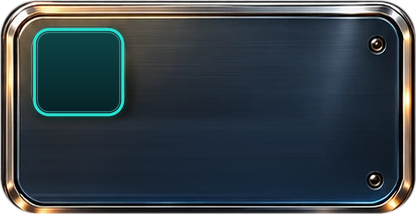
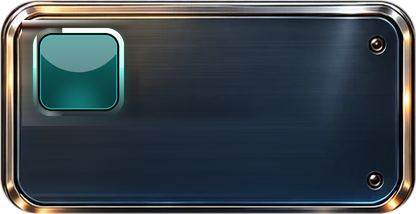
pages

Changed region(s): [[0.0312, 0.0841, 0.3125, 0.5888]]

diff --git a/index.html b/index.html
@@ -552,6 +552,7 @@ body.editing .nav-lab{pointer-events:auto;}
 }
 </style>
 <link rel="stylesheet" href="assets/fx.css?v=3">
+<link rel="stylesheet" href="assets/home-polish.css?v=12">
 </head>
 <body class="bg-black">
 <!-- shared metallic gradients for icon strokes -->
@@ -592,7 +593,7 @@ body.editing .nav-lab{pointer-events:auto;}
   <!-- ===================== GREETING ===================== -->
   <!-- Panel art: assets/greeting.png (865x202, supplied design with the baked text removed so the name/greeting stay editable).
        Live layers: photo button (tap to change), editable GOOD MORNING + name, breathing ring glow. -->
-  <section class="abs" style="--x:21;--y:411;--w:865;--h:202;transform:scale(1.025);transform-origin:0 0" aria-label="Greeting">
+  <section class="abs gloss" style="--x:21;--y:411;--w:865;--h:202;transform:scale(1.025);transform-origin:0 0" aria-label="Greeting">
     <img src="assets/greeting.png" alt="" class="absolute inset-0 w-full h-full" style="object-fit:fill;filter:drop-shadow(0 calc(8*var(--u)) calc(10*var(--u)) rgba(0,0,0,.65))">
     <!-- breathing orange glow around the segmented ring -->
     <div class="absolute pointer-events-none rounded-full" style="left:calc(46*var(--u));top:calc(0*var(--u));width:calc(204*var(--u));height:calc(200*var(--u));box-shadow:0 0 calc(26*var(--u)) rgba(255,122,26,.65),inset 0 0 calc(20*var(--u)) rgba(255,122,26,.25);animation:breathe 4.5s ease-in-out infinite" aria-hidden="true"></div>
@@ -611,7 +612,7 @@ body.editing .nav-lab{pointer-events:auto;}
   <!-- ===================== CTA ===================== -->
   <!-- Panel art: assets/cta.png (856x215, supplied design with the baked text removed so it stays editable; the glowing
        orange button is part of the art). Live layers: editable title/body, transparent button hit-area with hover/press/pulse. -->
-  <section class="abs" style="--x:24;--y:621;--w:856;--h:215;transform:scale(1.026);transform-origin:0 0" aria-label="Start a conversation">
+  <section class="abs gloss" style="--x:24;--y:621;--w:856;--h:215;transform:scale(1.026);transform-origin:0 0" aria-label="Start a conversation">
     <img src="assets/cta.png" alt="" class="absolute inset-0 w-full h-full" style="object-fit:fill;filter:drop-shadow(0 calc(8*var(--u)) calc(10*var(--u)) rgba(0,0,0,.65))">
     <div class="absolute" style="left:calc(56*var(--u));top:calc(40*var(--u));width:calc(600*var(--u))">
       <h3 data-edit="ctaTitle" class="title-orange m-0 font-bold leading-tight" style="font-size:clamp(18px,calc(46*var(--u)),27px)">Start a conversation</h3>
@@ -626,29 +627,33 @@ body.editing .nav-lab{pointer-events:auto;}
   <!-- Explore cards (2x2): Chats + Calls use the supplied art (chat/phone icon blocks); Marketplace + Anonymous reuse the same frame
        (assets/card-mk.png / card-an.png) with live SVG icons. Whole card is the click target; titles, subtitles and badge counts are editable. -->
   <div role="button" tabindex="0" data-action="chats" class="feature abs" style="--x:26;--y:895;--w:429;--h:220" aria-label="Chats — direct and group">
-    <img src="assets/card-market.png" alt="" class="absolute inset-0 w-full h-full" style="object-fit:fill;filter:drop-shadow(0 calc(8*var(--u)) calc(10*var(--u)) rgba(0,0,0,.65)) drop-shadow(0 0 calc(12*var(--u)) rgba(70,130,255,.25))">
+    <img src="assets/card-base-blue.png" alt="" class="absolute inset-0 w-full h-full" style="object-fit:fill;filter:drop-shadow(0 calc(8*var(--u)) calc(10*var(--u)) rgba(0,0,0,.65)) drop-shadow(0 0 calc(12*var(--u)) rgba(70,130,255,.25))">
+    <img class="ico3d absolute" src="assets/ico-chat-ref.png" alt="" style="left:calc(22.6*var(--u));top:calc(24*var(--u));width:calc(116.8*var(--u));height:calc(98*var(--u))">
     <span data-edit="chatsBadge" class="card-badge absolute" style="left:calc(357*var(--u));top:calc(28*var(--u));background:transparent;color:#fff;box-shadow:0 0 calc(12*var(--u)) transparent,inset 0 calc(2*var(--u)) 0 rgba(255,255,255,.45);font-size:clamp(11px,calc(27*var(--u)),15px);">10</span>
     <span data-edit="chatsTitle" class="title absolute" style="left:calc(40*var(--u));top:calc(125*var(--u));line-height:1">Chats</span>
     <span data-edit="chatsSub" class="sub absolute" style="left:calc(41*var(--u));top:calc(166*var(--u));font-size:clamp(12px,calc(31*var(--u)),17px);line-height:1">Direct &amp; group</span>
   </div>
 
   <div role="button" tabindex="0" data-action="calls" class="feature abs" style="--x:475;--y:895;--w:429;--h:220" aria-label="Calls — voice and video">
-    <img src="assets/card-anon.png" alt="" class="absolute inset-0 w-full h-full" style="object-fit:fill;filter:drop-shadow(0 calc(8*var(--u)) calc(10*var(--u)) rgba(0,0,0,.65)) drop-shadow(0 0 calc(12*var(--u)) rgba(255,170,70,.25))">
+    <img src="assets/card-base-dark.png" alt="" class="absolute inset-0 w-full h-full" style="object-fit:fill;filter:drop-shadow(0 calc(8*var(--u)) calc(10*var(--u)) rgba(0,0,0,.65)) drop-shadow(0 0 calc(12*var(--u)) rgba(255,170,70,.25))">
+    <img class="ico3d absolute" src="assets/ico-call-ref.png" alt="" style="left:calc(28.9*var(--u));top:calc(24*var(--u));width:calc(104.3*var(--u));height:calc(98*var(--u))">
     <span data-edit="callsTitle" class="title absolute" style="left:calc(40*var(--u));top:calc(125*var(--u));line-height:1">Calls</span>
     <span data-edit="callsSub" class="sub absolute" style="left:calc(41*var(--u));top:calc(166*var(--u));font-size:clamp(12px,calc(31*var(--u)),17px);line-height:1">Voice &amp; video</span>
   </div>
 
   <div role="button" tabindex="0" data-action="marketplace" class="feature abs" style="--x:26;--y:1135;--w:429;--h:220" aria-label="Marketplace — shop in chat">
-    <img src="assets/card-mk.png" alt="" class="absolute inset-0 w-full h-full" style="object-fit:fill;filter:drop-shadow(0 calc(8*var(--u)) calc(10*var(--u)) rgba(0,0,0,.65)) drop-shadow(0 0 calc(12*var(--u)) rgba(255,170,70,.25))">
-    <svg class="card-ico absolute" viewBox="0 0 24 24" fill="none" stroke="#ffc15a" stroke-width="1.7" stroke-linecap="round" stroke-linejoin="round" aria-hidden="true" style="left:calc(52*var(--u));top:calc(45*var(--u));width:calc(58*var(--u));height:calc(58*var(--u));filter:drop-shadow(0 0 calc(6*var(--u)) rgba(255,160,40,.9))"><path d="M4 9.5 5.5 4h13L20 9.5"/><path d="M4 9.5c0 1.4 1.1 2.5 2.5 2.5S9 10.9 9 9.5c0 1.4 1.1 2.5 2.5 2.5h1c1.4 0 2.5-1.1 2.5-2.5 0 1.4 1.1 2.5 2.5 2.5S20 10.9 20 9.5"/><path d="M5.5 12v8h13v-8"/><path d="M10 20v-4.5h4V20"/></svg>
+    <img src="assets/card-base-dark.png" alt="" class="absolute inset-0 w-full h-full" style="object-fit:fill;filter:drop-shadow(0 calc(8*var(--u)) calc(10*var(--u)) rgba(0,0,0,.65)) drop-shadow(0 0 calc(12*var(--u)) rgba(255,170,70,.25))">
+    <img class="ico3d absolute" src="assets/ico-mk.png" alt="" style="left:calc(28.9*var(--u));top:calc(24*var(--u));width:calc(104.3*var(--u));height:calc(98*var(--u))">
+    <svg class="card-ico absolute" viewBox="0 0 24 24" fill="none" stroke="#ffe6b0" stroke-width="1.8" stroke-linecap="round" stroke-linejoin="round" aria-hidden="true" style="left:calc(52*var(--u));top:calc(41*var(--u));width:calc(58*var(--u));height:calc(58*var(--u));z-index:2"><path d="M4 9.5 5.5 4h13L20 9.5M4 9.5c0 1.4 1.1 2.5 2.5 2.5S9 10.9 9 9.5c0 1.4 1.1 2.5 2.5 2.5h1c1.4 0 2.5-1.1 2.5-2.5 0 1.4 1.1 2.5 2.5 2.5S20 10.9 20 9.5M5.5 12v8h13v-8M10 20v-4.5h4V20"/></svg>
     <span data-edit="mkBadge" class="card-badge absolute" style="left:calc(357*var(--u));top:calc(28*var(--u));background:radial-gradient(circle at 35% 30%,#ffd37a,#e09a1c);color:#2a1700;box-shadow:0 0 calc(12*var(--u)) rgba(255,170,40,.8),inset 0 calc(2*var(--u)) 0 rgba(255,255,255,.45);">1</span>
     <span data-edit="mkTitle" class="title absolute" style="left:calc(40*var(--u));top:calc(125*var(--u));line-height:1">Marketplace</span>
     <span data-edit="mkSub" class="sub absolute" style="left:calc(41*var(--u));top:calc(166*var(--u));font-size:clamp(12px,calc(31*var(--u)),17px);line-height:1">Shop in chat</span>
   </div>
 
   <div role="button" tabindex="0" data-action="anonymous" class="feature abs" style="--x:475;--y:1135;--w:429;--h:220" aria-label="Anonymous — speak freely">
-    <img src="assets/card-an.png" alt="" class="absolute inset-0 w-full h-full" style="object-fit:fill;filter:drop-shadow(0 calc(8*var(--u)) calc(10*var(--u)) rgba(0,0,0,.65)) drop-shadow(0 0 calc(12*var(--u)) rgba(60,230,215,.25))">
-    <svg class="card-ico absolute" viewBox="0 0 24 24" fill="none" stroke="#4ff0e0" stroke-width="1.7" stroke-linecap="round" stroke-linejoin="round" aria-hidden="true" style="left:calc(52*var(--u));top:calc(45*var(--u));width:calc(58*var(--u));height:calc(58*var(--u));filter:drop-shadow(0 0 calc(6*var(--u)) rgba(40,230,215,.9))"><path d="M3 8.5c0-1 .8-1.7 1.8-1.5 2.4.5 4.6.7 7.2.7s4.8-.2 7.2-.7c1-.2 1.8.5 1.8 1.5v3c0 4-2.8 7.5-9 7.5s-9-3.5-9-7.5z"/><path d="M6.5 11.2c1-.7 2.8-.7 3.8.4M13.7 11.6c1-1.1 2.8-1.1 3.8-.4"/></svg>
+    <img src="assets/card-base-dark.png" alt="" class="absolute inset-0 w-full h-full" style="object-fit:fill;filter:drop-shadow(0 calc(8*var(--u)) calc(10*var(--u)) rgba(0,0,0,.65)) drop-shadow(0 0 calc(12*var(--u)) rgba(60,230,215,.25))">
+    <img class="ico3d absolute" src="assets/ico-an.png" alt="" style="left:calc(28.9*var(--u));top:calc(24*var(--u));width:calc(104.3*var(--u));height:calc(98*var(--u))">
+    <svg class="card-ico absolute" viewBox="0 0 24 24" fill="none" stroke="#b6fff4" stroke-width="1.8" stroke-linecap="round" stroke-linejoin="round" aria-hidden="true" style="left:calc(52*var(--u));top:calc(41*var(--u));width:calc(58*var(--u));height:calc(58*var(--u));z-index:2"><path d="M3 8.5c0-1 .8-1.7 1.8-1.5 2.4.5 4.6.7 7.2.7s4.8-.2 7.2-.7c1-.2 1.8.5 1.8 1.5v3c0 4-2.8 7.5-9 7.5s-9-3.5-9-7.5z"/><path d="M6.5 11.2c1-.7 2.8-.7 3.8.4M13.7 11.6c1-.7 2.8-.7 3.8-.4"/></svg>
     <span data-edit="anBadge" class="card-badge absolute" style="left:calc(357*var(--u));top:calc(28*var(--u));background:radial-gradient(circle at 35% 30%,#7cfff0,#12bfb0);color:#032a27;box-shadow:0 0 calc(12*var(--u)) rgba(40,230,215,.8),inset 0 calc(2*var(--u)) 0 rgba(255,255,255,.45);">3</span>
     <span data-edit="anTitle" class="title absolute" style="left:calc(40*var(--u));top:calc(125*var(--u));line-height:1">Anonymous</span>
     <span data-edit="anSub" class="sub absolute" style="left:calc(41*var(--u));top:calc(166*var(--u));font-size:clamp(12px,calc(31*var(--u)),17px);line-height:1">Speak freely</span>
@@ -656,7 +661,7 @@ body.editing .nav-lab{pointer-events:auto;}
 
   <!-- Design System row: metal frame = assets/card-blank.png via border-image (corners stay crisp at any width) -->
   <div role="button" tabindex="0" data-action="design-system" class="feature abs ds-card" style="--x:26;--y:1375;--w:878;--h:150" aria-label="Design System — foundation tokens and components">
-    <span class="ds-ico absolute"><svg viewBox="0 0 24 24" fill="none" stroke="#3fd2f2" stroke-width="1.7" stroke-linecap="round" stroke-linejoin="round" aria-hidden="true"><path d="M12 3a9 9 0 1 0 0 18c1.2 0 1.8-.9 1.8-1.8 0-.5-.2-.9-.5-1.3-.3-.4-.5-.8-.5-1.3 0-1 .8-1.8 1.8-1.8H17a4 4 0 0 0 4-4C21 6.4 16.9 3 12 3z"/><circle cx="7.5" cy="11" r="1"/><circle cx="10" cy="7.2" r="1"/><circle cx="14.5" cy="7.2" r="1"/></svg></span>
+    <span class="ds-ico absolute"><img src="assets/ico-ds.png" alt=""><svg viewBox="0 0 24 24" fill="none" stroke="#bff3ff" stroke-width="1.8" stroke-linecap="round" stroke-linejoin="round" aria-hidden="true"><path d="M12 3a9 9 0 1 0 0 18c1.2 0 1.8-.9 1.8-1.8 0-.5-.2-.9-.5-1.3-.3-.4-.5-.8-.5-1.3 0-1 .8-1.8 1.8-1.8H17a4 4 0 0 0 4-4C21 6.4 16.9 3 12 3z"/><circle cx="7.5" cy="11" r="1"/><circle cx="10" cy="7.2" r="1"/><circle cx="14.5" cy="7.2" r="1"/></svg></span>
     <span data-edit="dsTitle" class="title absolute" style="left:calc(185*var(--u));top:calc(34*var(--u));line-height:1">Design System</span>
     <span data-edit="dsSub" class="sub absolute" style="left:calc(185*var(--u));top:calc(80*var(--u));font-size:clamp(12px,calc(31*var(--u)),17px);line-height:1">Foundation tokens &amp; components</span>
     <span class="ds-dash absolute" style="left:calc(185*var(--u));top:calc(122*var(--u))"><i style="background:#2fd3e6;box-shadow:0 0 calc(6*var(--u)) #2fd3e6"></i><i style="background:#e8a838;box-shadow:0 0 calc(6*var(--u)) #e8a838"></i><i style="background:#25c9b5;box-shadow:0 0 calc(6*var(--u)) #25c9b5"></i><i style="background:#7a5cf0;box-shadow:0 0 calc(6*var(--u)) #7a5cf0"></i><i style="background:#e8643c;box-shadow:0 0 calc(6*var(--u)) #e8643c"></i></span>
@@ -811,6 +816,6 @@ document.querySelectorAll('.nav-hit[data-nav]').forEach(function(btn){
   });
 })();
 </script>
-<script src="assets/fx.js?v=2"></script>
+<script src="assets/fx.js?v=3"></script>
 </body>
 </html>

diff --git a/assets/home-polish.css b/assets/home-polish.css
@@ -1,0 +1,89 @@
+/* Home page polish: cleaner glossy 3D metal, brighter icons (matches the reference render) */
+
+/* brighter, punchier panel art */
+.feature>img{filter:brightness(1.14) saturate(1.22) contrast(1.05) drop-shadow(0 calc(8*var(--u)) calc(10*var(--u)) rgba(0,0,0,.6)) drop-shadow(0 0 calc(12*var(--u)) rgba(255,150,60,.3)) !important}
+section.abs>img:first-child{filter:brightness(1.1) saturate(1.15) contrast(1.04) drop-shadow(0 calc(8*var(--u)) calc(10*var(--u)) rgba(0,0,0,.6)) !important}
+
+/* glossy sheen across the big panels */
+.gloss::after{content:"";position:absolute;left:2.2%;right:2.2%;top:4%;height:46%;border-radius:calc(26*var(--u)) calc(26*var(--u)) 50% 50% / calc(26*var(--u)) calc(26*var(--u)) 22% 22%;pointer-events:none;z-index:2;
+  background:linear-gradient(180deg,rgba(255,255,255,.2),rgba(255,255,255,.05) 55%,rgba(255,255,255,0))}
+
+/* explore cards: clean white titles, glowing icon blocks */
+.feature .title{color:#fff !important;text-shadow:0 calc(2*var(--u)) 0 #0a1018,0 calc(4*var(--u)) calc(4*var(--u)) rgba(0,0,0,.75) !important}
+.feature .sub{color:#e6edf6 !important}
+.feature::before{content:"";position:absolute;left:calc(34*var(--u));top:calc(29*var(--u));width:calc(94*var(--u));height:calc(91*var(--u));border-radius:calc(22*var(--u));pointer-events:none;z-index:1;
+  box-shadow:0 0 calc(22*var(--u)) var(--ig,rgba(255,170,60,.55)),inset 0 0 calc(14*var(--u)) var(--ig,rgba(255,170,60,.25));animation:iconGlow 3.4s ease-in-out infinite}
+.feature[data-action=chats]{--ig:rgba(255,80,90,.7)}
+.feature[data-action=calls]{--ig:rgba(255,190,80,.75)}
+.feature[data-action=marketplace]{--ig:rgba(255,175,50,.8)}
+.feature[data-action=anonymous]{--ig:rgba(40,235,215,.8)}
+@keyframes iconGlow{0%,100%{opacity:.7}50%{opacity:1}}
+.card-ico{stroke-width:2 !important;stroke:#ffe6b0 !important;filter:drop-shadow(0 calc(2*var(--u)) 0 rgba(60,30,0,.7)) drop-shadow(0 0 calc(9*var(--u)) rgba(255,180,60,1)) drop-shadow(0 0 calc(18*var(--u)) rgba(255,150,40,.7)) !important}
+[data-action=anonymous] .card-ico{stroke:#b6fff4 !important;filter:drop-shadow(0 calc(2*var(--u)) 0 rgba(0,40,40,.7)) drop-shadow(0 0 calc(9*var(--u)) rgba(60,255,235,1)) drop-shadow(0 0 calc(18*var(--u)) rgba(30,220,200,.7)) !important}
+.card-badge{box-shadow:0 0 calc(14*var(--u)) currentColor,inset 0 calc(3*var(--u)) calc(2*var(--u)) rgba(255,255,255,.6) !important}
+
+/* design system row: brighter icon */
+.ds-ico{box-shadow:0 0 calc(20*var(--u)) rgba(63,210,242,.9),inset 0 0 calc(14*var(--u)) rgba(63,210,242,.35) !important}
+.ds-ico svg{stroke:#bff3ff !important;filter:drop-shadow(0 0 calc(8*var(--u)) rgba(63,210,242,1)) !important}
+
+/* bottom nav icons: whiter, bolder, glowing */
+.nvi{stroke:#f6f9fc !important;stroke-width:2.15 !important;
+  filter:drop-shadow(0 calc(2*var(--u)) 0 #000) drop-shadow(0 calc(-1*var(--u)) 0 rgba(255,255,255,.55)) drop-shadow(0 0 calc(7*var(--u)) rgba(255,255,255,.4)) !important}
+.nav-hit.active>.nvi{stroke:#ffd9a6 !important;filter:drop-shadow(0 calc(2*var(--u)) 0 #3b1a04) drop-shadow(0 0 calc(10*var(--u)) rgba(255,140,40,1)) drop-shadow(0 0 calc(22*var(--u)) rgba(255,110,20,.75)) !important}
+.nav-lab{color:#fff !important;font-weight:700 !important}.nav-lab.active{color:#ffd9a6 !important}
+
+/* chats icon colour + cleaner type */
+[data-action=chats] .card-ico{stroke:#ff7684 !important;filter:drop-shadow(0 calc(2*var(--u)) 0 rgba(60,0,10,.7)) drop-shadow(0 0 calc(9*var(--u)) rgba(255,90,110,1)) drop-shadow(0 0 calc(18*var(--u)) rgba(255,70,90,.7)) !important}
+.feature .title{font-weight:800 !important;letter-spacing:.005em !important;text-shadow:0 calc(1.5*var(--u)) calc(2*var(--u)) rgba(0,0,0,.7) !important}
+.feature .sub{font-weight:500 !important;color:#eef3f9 !important;text-shadow:0 calc(1.5*var(--u)) calc(2*var(--u)) rgba(0,0,0,.7) !important}
+.nav-lab{font-weight:600 !important;letter-spacing:.01em;text-shadow:0 calc(1.5*var(--u)) calc(2*var(--u)) rgba(0,0,0,.8) !important}
+.nav-lab.active{color:#ffdcae !important;text-shadow:0 0 calc(8*var(--u)) rgba(255,130,30,.7),0 calc(1.5*var(--u)) calc(2*var(--u)) rgba(0,0,0,.8) !important}
+
+/* nav icons: one clean bright stroke + a single soft glow */
+.nvi{stroke:#ffffff !important;stroke-width:1.9 !important;
+  filter:drop-shadow(0 calc(1.5*var(--u)) calc(1.5*var(--u)) rgba(0,0,0,.85)) drop-shadow(0 0 calc(6*var(--u)) rgba(255,255,255,.55)) !important}
+.nav-hit.active>.nvi{stroke:#ffe2bd !important;filter:drop-shadow(0 calc(1.5*var(--u)) calc(1.5*var(--u)) rgba(60,20,0,.8)) drop-shadow(0 0 calc(9*var(--u)) rgba(255,150,50,1)) !important}
+
+/* ---- bottom nav matched to the reference: uniform chrome outline icons, no orange tab highlight ---- */
+.nav-hit.active::before,.nav-hit:hover::before{background:none !important;animation:none !important}
+.nvi{fill:none;stroke:none !important;stroke-width:1 !important;filter:drop-shadow(0 calc(2*var(--u)) calc(2*var(--u)) rgba(0,0,0,.7)) !important}
+.nvi .nb-b{stroke:#0d1217;stroke-width:3.5;stroke-linecap:round;stroke-linejoin:round;fill:none}
+.nvi .nb-f{stroke-width:1.7;stroke-linecap:round;stroke-linejoin:round;fill:none}
+.nav-hit:hover>.nvi,.nav-hit.active>.nvi{filter:drop-shadow(0 calc(2*var(--u)) calc(2*var(--u)) rgba(0,0,0,.7)) drop-shadow(0 0 calc(8*var(--u)) rgba(255,255,255,.55)) !important}
+.nav-lab,.nav-lab.active{color:#f1f4f7 !important;font-weight:600 !important}
+.nav-lab.calls-lab{color:#ffe9d0 !important;text-shadow:0 0 calc(8*var(--u)) rgba(255,120,20,.8),0 calc(1.5*var(--u)) calc(2*var(--u)) rgba(0,0,0,.8) !important}
+
+/* 3D icon tiles from the reference images */
+.ico3d{z-index:2;border-radius:calc(22*var(--u));object-fit:fill;pointer-events:none;filter:drop-shadow(0 calc(5*var(--u)) calc(6*var(--u)) rgba(0,0,0,.65))}
+.feature::before{display:none !important}
+
+/* spacing like the reference: smaller icon tile, clear gap before the title */
+.feature .ico3d{left:calc(36*var(--u)) !important;top:calc(28*var(--u)) !important;height:calc(84*var(--u)) !important}
+[data-action=chats] .ico3d{width:calc(100*var(--u)) !important}
+[data-action=calls] .ico3d,[data-action=marketplace] .ico3d,[data-action=anonymous] .ico3d{width:calc(89*var(--u)) !important}
+[data-action=chats] .card-ico,[data-action=calls] .card-ico,[data-action=marketplace] .card-ico,[data-action=anonymous] .card-ico{left:calc(55*var(--u)) !important;top:calc(45*var(--u)) !important;width:calc(52*var(--u)) !important;height:calc(52*var(--u)) !important}
+[data-action=chats] .title,[data-action=calls] .title,[data-action=marketplace] .title,[data-action=anonymous] .title{top:calc(127*var(--u)) !important}
+[data-action=chats] .sub,[data-action=calls] .sub,[data-action=marketplace] .sub,[data-action=anonymous] .sub{top:calc(170*var(--u)) !important}
+
+/* final spacing pass: clear gap icon -> title -> subtitle */
+.feature .ico3d{top:calc(24*var(--u)) !important;height:calc(80*var(--u)) !important}
+[data-action=chats] .ico3d{width:calc(95*var(--u)) !important}
+[data-action=calls] .ico3d,[data-action=marketplace] .ico3d,[data-action=anonymous] .ico3d{width:calc(85*var(--u)) !important}
+[data-action=chats] .card-ico,[data-action=calls] .card-ico,[data-action=marketplace] .card-ico,[data-action=anonymous] .card-ico{top:calc(40*var(--u)) !important;width:calc(48*var(--u)) !important;height:calc(48*var(--u)) !important;left:calc(54*var(--u)) !important}
+[data-action=chats] .title,[data-action=calls] .title,[data-action=marketplace] .title,[data-action=anonymous] .title{top:calc(129*var(--u)) !important;line-height:1.1 !important}
+[data-action=chats] .sub,[data-action=calls] .sub,[data-action=marketplace] .sub,[data-action=anonymous] .sub{top:calc(177*var(--u)) !important}
+
+/* Design System row keeps its own layout */
+.ds-card .title{top:calc(34*var(--u)) !important}
+.ds-card .sub{top:calc(80*var(--u)) !important}
+
+/* spacing v3: more room above the icon tile, text tucked closer beneath it */
+.feature .ico3d{top:calc(38*var(--u)) !important}
+[data-action=chats] .card-ico,[data-action=calls] .card-ico,[data-action=marketplace] .card-ico,[data-action=anonymous] .card-ico{top:calc(54*var(--u)) !important}
+[data-action=chats] .title,[data-action=calls] .title,[data-action=marketplace] .title,[data-action=anonymous] .title{top:calc(127*var(--u)) !important}
+[data-action=chats] .sub,[data-action=calls] .sub,[data-action=marketplace] .sub,[data-action=anonymous] .sub{top:calc(170*var(--u)) !important}
+
+/* Design System icon = same 3D glossy tile as Chats/Calls (blue) */
+.ds-ico{background:none !important;border:0 !important;box-shadow:none !important;border-radius:0 !important;width:calc(100*var(--u)) !important;height:calc(94*var(--u)) !important;left:calc(52*var(--u)) !important;top:calc(28*var(--u)) !important;display:block;filter:drop-shadow(0 calc(5*var(--u)) calc(6*var(--u)) rgba(0,0,0,.65))}
+.ds-ico img{position:absolute;inset:0;width:100%;height:100%;object-fit:fill;border-radius:calc(22*var(--u));display:block}
+.ds-ico svg{position:absolute !important;left:50%;top:50%;width:calc(52*var(--u)) !important;height:calc(52*var(--u)) !important;transform:translate(-50%,-50%);stroke:#c9f6ff !important;filter:drop-shadow(0 0 calc(7*var(--u)) rgba(63,210,242,1)) drop-shadow(0 0 calc(14*var(--u)) rgba(40,170,255,.7)) !important}

diff --git a/assets/fx.js b/assets/fx.js
@@ -23,7 +23,7 @@
 (function(){
   var P={
     home:['h','<path d="M4 11 12 4l8 7v9h-5v-6H9v6H4z"/>',47,43],
-    chats:['c','<path d="M4 5h16v11H9l-5 4z"/>',53,36],
+    chats:['c','<path d="M6 4.5h12a2.5 2.5 0 0 1 2.5 2.5v7.5a2.5 2.5 0 0 1-2.5 2.5h-6.5L6.5 20v-3H6a2.5 2.5 0 0 1-2.5-2.5V7A2.5 2.5 0 0 1 6 4.5z"/>',53,36],
     market:['m','<path d="M4 9.5 5.5 4h13L20 9.5M4 9.5c0 1.4 1.1 2.5 2.5 2.5S9 10.9 9 9.5c0 1.4 1.1 2.5 2.5 2.5h1c1.4 0 2.5-1.1 2.5-2.5 0 1.4 1.1 2.5 2.5 2.5S20 10.9 20 9.5M5.5 12v8h13v-8M10 20v-4.5h4V20"/>',53,40],
     profile:['p','<circle cx="12" cy="8.5" r="3.6"/><path d="M5 20c.8-4 3.6-5.8 7-5.8s6.2 1.8 7 5.8"/>',48,36]
   };
@@ -32,7 +32,10 @@
     var s=document.createElementNS('http://www.w3.org/2000/svg','svg');
     s.setAttribute('viewBox','0 0 24 24');s.setAttribute('class','nvi '+d[0]);s.setAttribute('aria-hidden','true');
     s.style.left='calc('+(d[2]-31)+' * var(--nu))';s.style.top='calc('+(d[3]-31)+' * var(--nu))';
-    s.innerHTML=d[1];el.appendChild(s);
+    var id='nvg'+Math.random().toString(36).slice(2,7);
+    s.innerHTML='<defs><linearGradient id="'+id+'" x1="0" y1="0" x2="0" y2="1"><stop offset="0" stop-color="#ffffff"/><stop offset=".55" stop-color="#d4dbe2"/><stop offset="1" stop-color="#8e99a4"/></linearGradient></defs>'+
+      '<g class="nb-b">'+d[1]+'</g><g class="nb-f" style="stroke:url(#'+id+')">'+d[1]+'</g>';
+    el.appendChild(s);
   }
   [].forEach.call(document.querySelectorAll('nav a[aria-label]'),function(a){add(a,a.getAttribute('aria-label').toLowerCase());});
   [].forEach.call(document.querySelectorAll('.nav-hit[data-action]'),function(a){add(a,a.dataset.action);});
